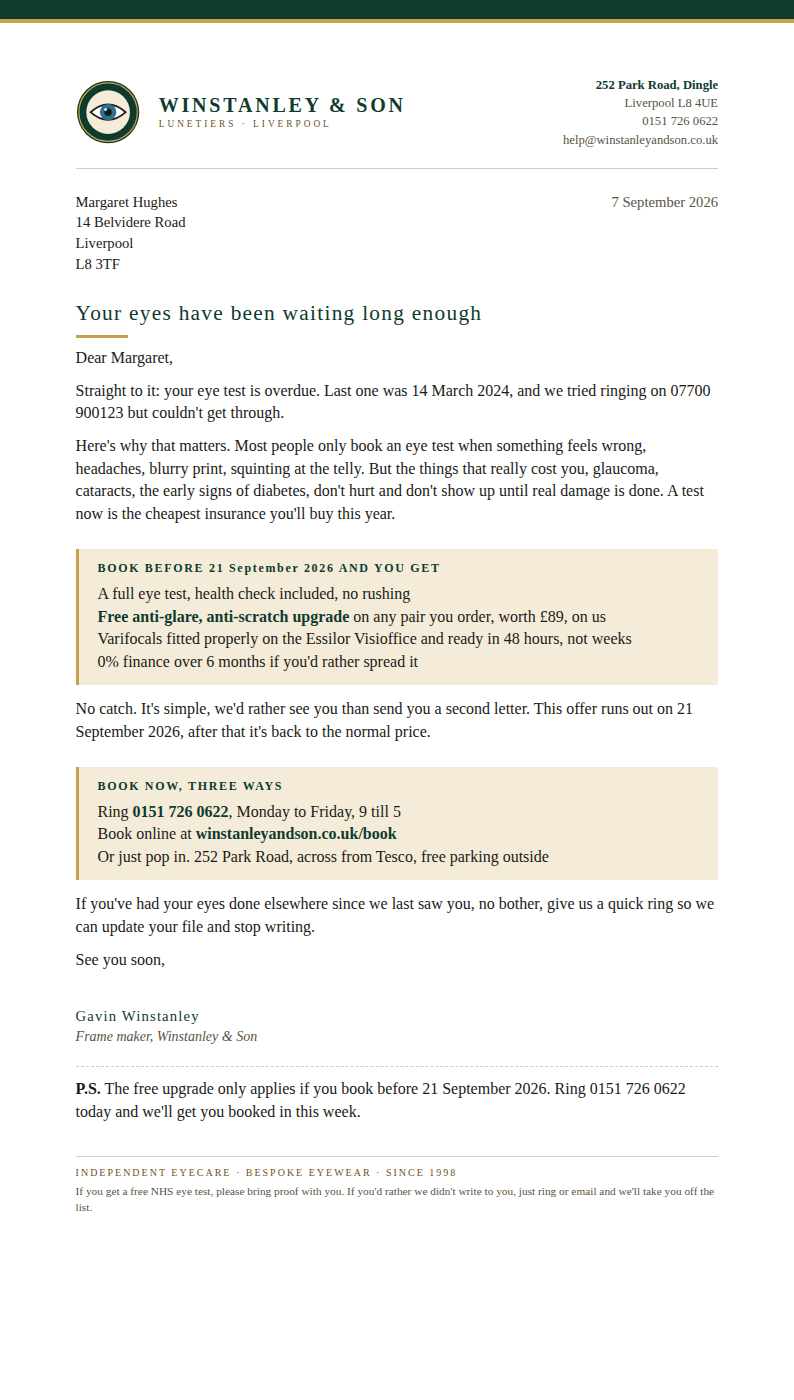
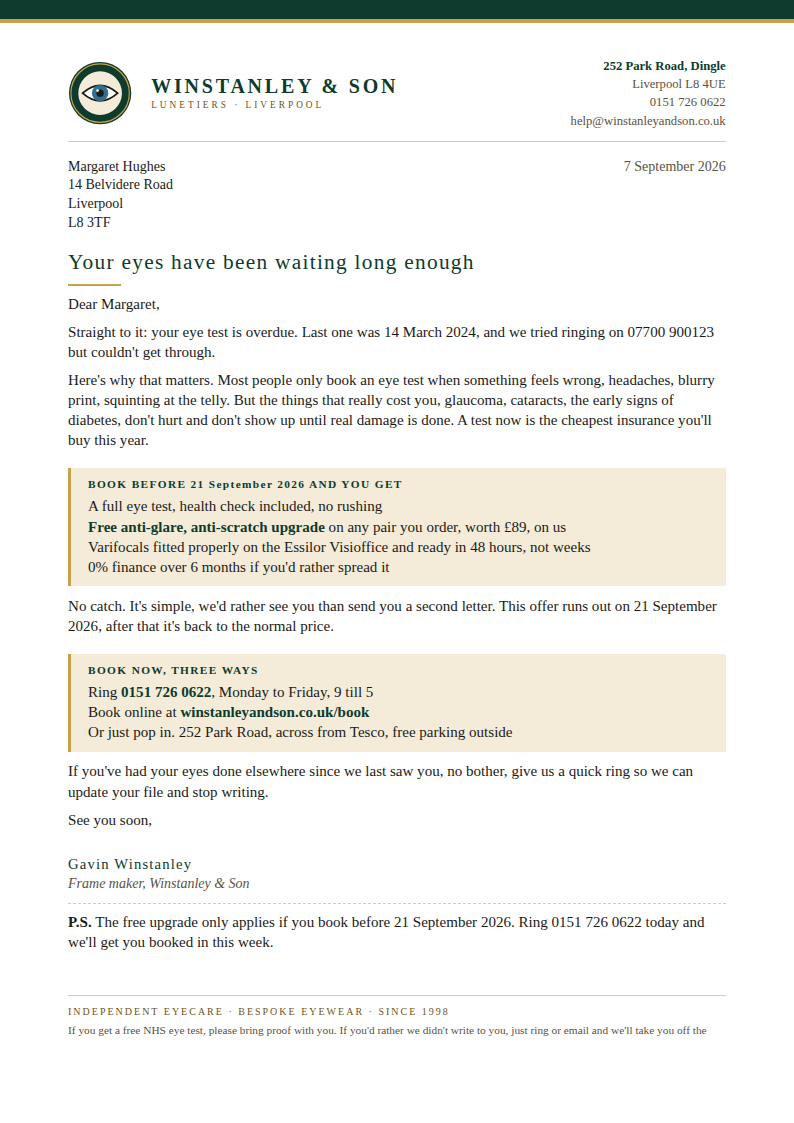
Tighten letter layout so both fit a single A4 page
Claude-Session: https://claude.ai/code/session_01RZ9dmirfgbEMTdyZc5ae4N

Changed region(s): [[0.0, 0.0, 1.0, 0.935]]

diff --git a/tools/address-audit/letters/cold-reactivation-letter.html b/tools/address-audit/letters/cold-reactivation-letter.html
@@ -4,28 +4,28 @@
 :root{--green:#0e3b2e;--gold:#c8a24a;--gold-text:#6f5420;--ink:#1b1a17;--parchment:#f4ecd9;--rule:#d9cdb0;--slate:#5a5245;--iris:#2f6f8f}
 @page{size:A4;margin:0}
 *{box-sizing:border-box}
-html,body{margin:0;background:#fff;color:var(--ink);font-family:'Cormorant Garamond',Georgia,serif;font-size:12pt;line-height:1.42;-webkit-print-color-adjust:exact;print-color-adjust:exact}
-.page{width:210mm;min-height:297mm;padding:14mm 20mm 26mm;position:relative;display:flex;flex-direction:column}
+html,body{margin:0;background:#fff;color:var(--ink);font-family:'Cormorant Garamond',Georgia,serif;font-size:11.3pt;line-height:1.34;-webkit-print-color-adjust:exact;print-color-adjust:exact}
+.page{width:210mm;min-height:297mm;padding:12mm 18mm 18mm;position:relative;display:flex;flex-direction:column}
 .band{position:absolute;left:0;top:0;right:0;height:6mm;background:var(--green);border-bottom:1.2mm solid var(--gold)}
-.head{display:flex;align-items:center;gap:5mm;margin-top:6mm;padding-bottom:5mm;border-bottom:1px solid var(--rule)}
+.head{display:flex;align-items:center;gap:5mm;margin-top:3mm;padding-bottom:3mm;border-bottom:1px solid var(--rule)}
 .head svg{width:17mm;height:17mm;flex-shrink:0}
 .wordmark{font-family:Cinzel,Georgia,serif;font-weight:600;font-size:15pt;letter-spacing:.14em;color:var(--green);line-height:1.05}
 .wordmark small{display:block;font-size:7pt;letter-spacing:.32em;color:var(--gold-text);font-weight:500;margin-top:1.2mm}
 .head .contact{margin-left:auto;text-align:right;font-size:9.5pt;line-height:1.45;color:var(--slate)}
 .head .contact b{color:var(--green);font-weight:600}
-.meta{display:flex;justify-content:space-between;margin-top:6mm;font-size:11pt}
-.addr{white-space:pre-line;min-height:22mm}  /* Stannp window: 20mm from left, ~45mm from top */
+.meta{display:flex;justify-content:space-between;margin-top:4mm;font-size:10.5pt}
+.addr{white-space:pre-line;min-height:18mm}  /* Stannp window: 20mm from left, ~45mm from top */
 .date{color:var(--slate)}
-h1{font-family:Cinzel,Georgia,serif;font-weight:500;font-size:16pt;letter-spacing:.06em;color:var(--green);margin:6mm 0 2.5mm}
+h1{font-family:Cinzel,Georgia,serif;font-weight:500;font-size:16pt;letter-spacing:.06em;color:var(--green);margin:4mm 0 2mm}
 h1:after{content:"";display:block;width:14mm;height:.6mm;background:var(--gold);margin-top:2mm}
-p{margin:0 0 2.6mm}
+p{margin:0 0 2.1mm}
 ul{margin:0 0 3.2mm;padding-left:5mm} li{margin-bottom:1.2mm}
-.ways{background:var(--parchment);border-left:1mm solid var(--gold);padding:3mm 5mm;margin:3.5mm 0}
-.ways b{font-family:Cinzel,Georgia,serif;font-size:9pt;letter-spacing:.14em;color:var(--green);display:block;margin-bottom:1.5mm}
-.sig{margin-top:4mm}
+.ways{background:var(--parchment);border-left:1mm solid var(--gold);padding:2.4mm 4.5mm;margin:2.6mm 0}
+.ways b{font-family:Cinzel,Georgia,serif;font-size:8.5pt;letter-spacing:.12em;color:var(--green);display:block;margin-bottom:1mm}
+.sig{margin-top:2.5mm}
 .sig .name{font-family:Cinzel,Georgia,serif;font-size:11pt;letter-spacing:.08em;color:var(--green)}
 .sig .role{font-size:10.5pt;color:var(--slate);font-style:italic}
-.foot{margin-top:auto;padding-top:6mm}.foot .inner{border-top:1px solid var(--rule);padding-top:2.5mm;font-size:8.5pt;color:var(--slate);line-height:1.4}
+.foot{margin-top:auto;padding-top:3mm}.foot .inner{border-top:1px solid var(--rule);padding-top:2.5mm;font-size:8.5pt;color:var(--slate);line-height:1.4}
 .foot .tag{font-family:Cinzel,Georgia,serif;letter-spacing:.2em;font-size:7.5pt;color:var(--gold-text);margin-bottom:1mm}
 </style></head><body><div class="page"><div class="band"></div>
 <div class="head"><svg viewBox="0 0 330 330" xmlns="http://www.w3.org/2000/svg" width="64" height="64"><circle cx="165" cy="165" r="160" fill="#0e3b2e"/><circle cx="165" cy="165" r="150" fill="none" stroke="#c8a24a" stroke-width="6"/><circle cx="165" cy="165" r="112" fill="#f4ecd9"/><path d="M75 165Q165 85 255 165Q165 245 75 165Z" fill="#fff" stroke="#1b1a17" stroke-width="9"/><circle cx="165" cy="165" r="42" fill="#2f6f8f"/><circle cx="165" cy="165" r="19" fill="#1b1a17"/><circle cx="152" cy="152" r="7" fill="#fff"/></svg><div class="wordmark">WINSTANLEY &amp; SON<small>LUNETIERS · LIVERPOOL</small></div>
@@ -52,6 +52,6 @@ Or pop in to 252 Park Road, across from Tesco, free parking outside</div>
 <p>The offer runs to {{contact.letter_expiry_date}}. After that, this letter's no good, so don't leave it in a drawer.</p>
 <p>Hope to see you soon,</p>
 <div class="sig"><p></p><div class="name">{{practice.signatory_name}}</div><div class="role">{{practice.signatory_role}}, Winstanley &amp; Son</div></div>
-<p style="margin-top:5mm;border-top:1px dashed var(--rule);padding-top:3mm"><b>P.S.</b> £40 off, free health check, and a 48-hour turnaround on varifocals. All it costs you is a phone call. Ring 0151 726 0622 before {{contact.letter_expiry_date}}.</p>
+<p style="margin-top:2.5mm;border-top:1px dashed var(--rule);padding-top:2mm"><b>P.S.</b> £40 off, free health check, and a 48-hour turnaround on varifocals. All it costs you is a phone call. Ring 0151 726 0622 before {{contact.letter_expiry_date}}.</p>
 <div class="foot"><div class="inner"><div class="tag">INDEPENDENT EYECARE · BESPOKE EYEWEAR · SINCE 1998</div>We're writing because you've been a patient here and we like to remind people when they're due. If you'd rather not hear from us again, ring, email, or send this letter back marked "no more letters" and we'll take you off straight away.</div></div>
 </div></body></html>

diff --git a/tools/address-audit/letters/recall-letter.html b/tools/address-audit/letters/recall-letter.html
@@ -4,28 +4,28 @@
 :root{--green:#0e3b2e;--gold:#c8a24a;--gold-text:#6f5420;--ink:#1b1a17;--parchment:#f4ecd9;--rule:#d9cdb0;--slate:#5a5245;--iris:#2f6f8f}
 @page{size:A4;margin:0}
 *{box-sizing:border-box}
-html,body{margin:0;background:#fff;color:var(--ink);font-family:'Cormorant Garamond',Georgia,serif;font-size:12pt;line-height:1.42;-webkit-print-color-adjust:exact;print-color-adjust:exact}
-.page{width:210mm;min-height:297mm;padding:14mm 20mm 26mm;position:relative;display:flex;flex-direction:column}
+html,body{margin:0;background:#fff;color:var(--ink);font-family:'Cormorant Garamond',Georgia,serif;font-size:11.3pt;line-height:1.34;-webkit-print-color-adjust:exact;print-color-adjust:exact}
+.page{width:210mm;min-height:297mm;padding:12mm 18mm 18mm;position:relative;display:flex;flex-direction:column}
 .band{position:absolute;left:0;top:0;right:0;height:6mm;background:var(--green);border-bottom:1.2mm solid var(--gold)}
-.head{display:flex;align-items:center;gap:5mm;margin-top:6mm;padding-bottom:5mm;border-bottom:1px solid var(--rule)}
+.head{display:flex;align-items:center;gap:5mm;margin-top:3mm;padding-bottom:3mm;border-bottom:1px solid var(--rule)}
 .head svg{width:17mm;height:17mm;flex-shrink:0}
 .wordmark{font-family:Cinzel,Georgia,serif;font-weight:600;font-size:15pt;letter-spacing:.14em;color:var(--green);line-height:1.05}
 .wordmark small{display:block;font-size:7pt;letter-spacing:.32em;color:var(--gold-text);font-weight:500;margin-top:1.2mm}
 .head .contact{margin-left:auto;text-align:right;font-size:9.5pt;line-height:1.45;color:var(--slate)}
 .head .contact b{color:var(--green);font-weight:600}
-.meta{display:flex;justify-content:space-between;margin-top:6mm;font-size:11pt}
-.addr{white-space:pre-line;min-height:22mm}  /* Stannp window: 20mm from left, ~45mm from top */
+.meta{display:flex;justify-content:space-between;margin-top:4mm;font-size:10.5pt}
+.addr{white-space:pre-line;min-height:18mm}  /* Stannp window: 20mm from left, ~45mm from top */
 .date{color:var(--slate)}
-h1{font-family:Cinzel,Georgia,serif;font-weight:500;font-size:16pt;letter-spacing:.06em;color:var(--green);margin:6mm 0 2.5mm}
+h1{font-family:Cinzel,Georgia,serif;font-weight:500;font-size:16pt;letter-spacing:.06em;color:var(--green);margin:4mm 0 2mm}
 h1:after{content:"";display:block;width:14mm;height:.6mm;background:var(--gold);margin-top:2mm}
-p{margin:0 0 2.6mm}
+p{margin:0 0 2.1mm}
 ul{margin:0 0 3.2mm;padding-left:5mm} li{margin-bottom:1.2mm}
-.ways{background:var(--parchment);border-left:1mm solid var(--gold);padding:3mm 5mm;margin:3.5mm 0}
-.ways b{font-family:Cinzel,Georgia,serif;font-size:9pt;letter-spacing:.14em;color:var(--green);display:block;margin-bottom:1.5mm}
-.sig{margin-top:4mm}
+.ways{background:var(--parchment);border-left:1mm solid var(--gold);padding:2.4mm 4.5mm;margin:2.6mm 0}
+.ways b{font-family:Cinzel,Georgia,serif;font-size:8.5pt;letter-spacing:.12em;color:var(--green);display:block;margin-bottom:1mm}
+.sig{margin-top:2.5mm}
 .sig .name{font-family:Cinzel,Georgia,serif;font-size:11pt;letter-spacing:.08em;color:var(--green)}
 .sig .role{font-size:10.5pt;color:var(--slate);font-style:italic}
-.foot{margin-top:auto;padding-top:6mm}.foot .inner{border-top:1px solid var(--rule);padding-top:2.5mm;font-size:8.5pt;color:var(--slate);line-height:1.4}
+.foot{margin-top:auto;padding-top:3mm}.foot .inner{border-top:1px solid var(--rule);padding-top:2.5mm;font-size:8.5pt;color:var(--slate);line-height:1.4}
 .foot .tag{font-family:Cinzel,Georgia,serif;letter-spacing:.2em;font-size:7.5pt;color:var(--gold-text);margin-bottom:1mm}
 </style></head><body><div class="page"><div class="band"></div>
 <div class="head"><svg viewBox="0 0 330 330" xmlns="http://www.w3.org/2000/svg" width="64" height="64"><circle cx="165" cy="165" r="160" fill="#0e3b2e"/><circle cx="165" cy="165" r="150" fill="none" stroke="#c8a24a" stroke-width="6"/><circle cx="165" cy="165" r="112" fill="#f4ecd9"/><path d="M75 165Q165 85 255 165Q165 245 75 165Z" fill="#fff" stroke="#1b1a17" stroke-width="9"/><circle cx="165" cy="165" r="42" fill="#2f6f8f"/><circle cx="165" cy="165" r="19" fill="#1b1a17"/><circle cx="152" cy="152" r="7" fill="#fff"/></svg><div class="wordmark">WINSTANLEY &amp; SON<small>LUNETIERS · LIVERPOOL</small></div>
@@ -51,6 +51,6 @@ Or just pop in. 252 Park Road, across from Tesco, free parking outside</div>
 <p>If you've had your eyes done elsewhere since we last saw you, no bother, give us a quick ring so we can update your file and stop writing.</p>
 <p>See you soon,</p>
 <div class="sig"><p></p><div class="name">{{practice.signatory_name}}</div><div class="role">{{practice.signatory_role}}, Winstanley &amp; Son</div></div>
-<p style="margin-top:5mm;border-top:1px dashed var(--rule);padding-top:3mm"><b>P.S.</b> The free upgrade only applies if you book before {{contact.letter_expiry_date}}. Ring 0151 726 0622 today and we'll get you booked in this week.</p>
+<p style="margin-top:2.5mm;border-top:1px dashed var(--rule);padding-top:2mm"><b>P.S.</b> The free upgrade only applies if you book before {{contact.letter_expiry_date}}. Ring 0151 726 0622 today and we'll get you booked in this week.</p>
 <div class="foot"><div class="inner"><div class="tag">INDEPENDENT EYECARE · BESPOKE EYEWEAR · SINCE 1998</div>If you get a free NHS eye test, please bring proof with you. If you'd rather we didn't write to you, just ring or email and we'll take you off the list.</div></div>
 </div></body></html>
